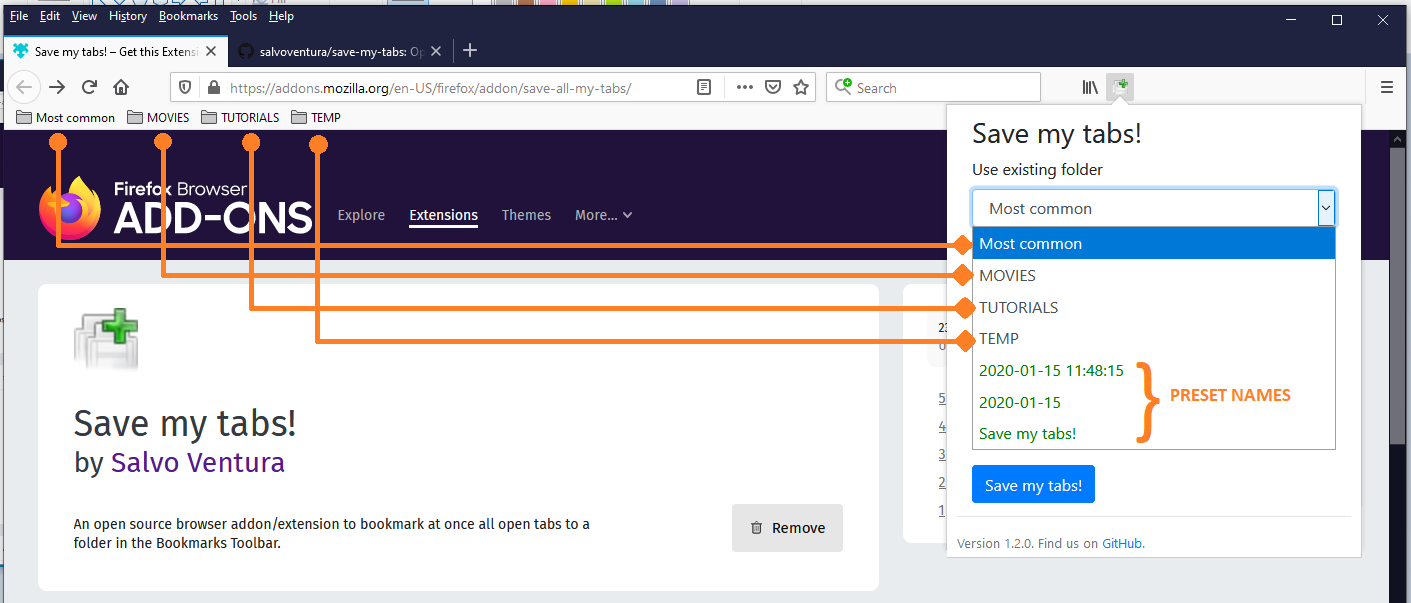
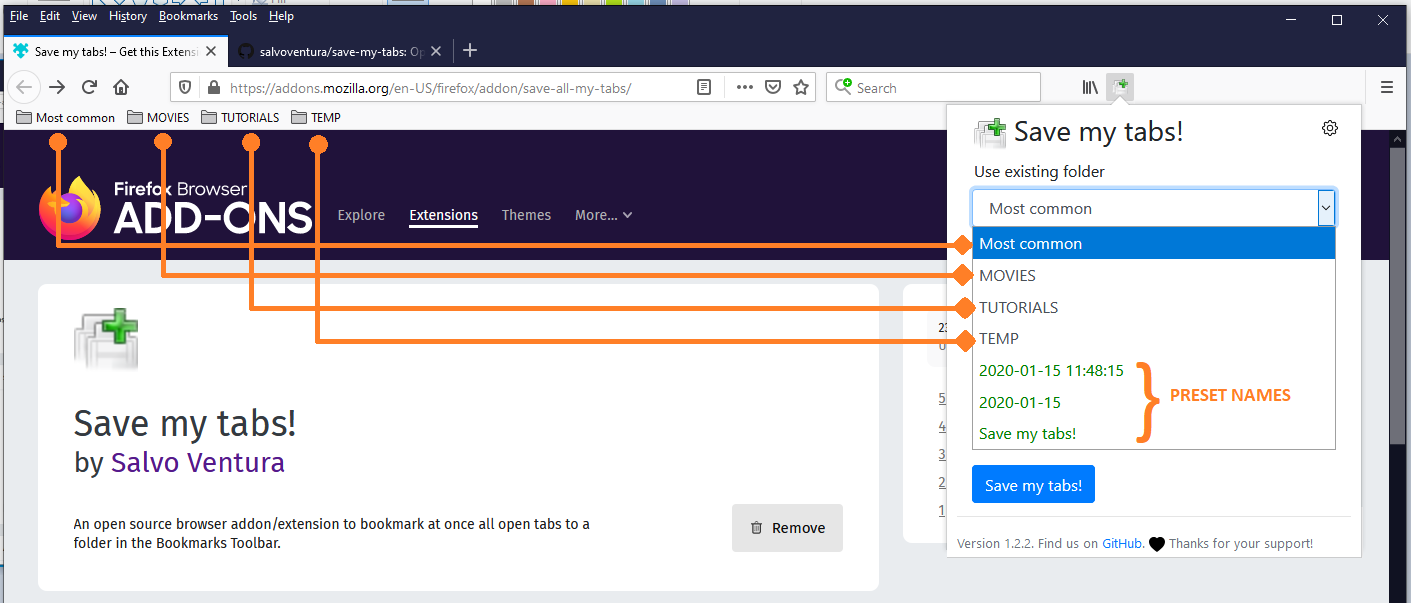
Bugfix, update screenshots for docs and update polyfill library to 0.7

diff --git a/lib/browser-polyfill.min.js b/lib/browser-polyfill.min.js
@@ -1,7 +1,7 @@
-(function(a,b){if("function"==typeof define&&define.amd)define("webextension-polyfill",["module"],b);else if("undefined"!=typeof exports)b(module);else{var c={exports:{}};b(c),a.browser=c.exports}})("undefined"==typeof globalThis?"undefined"==typeof self?this:self:globalThis,function(a){"use strict";if("undefined"==typeof browser||Object.getPrototypeOf(browser)!==Object.prototype){if("object"!=typeof chrome||!chrome||!chrome.runtime||!chrome.runtime.id)throw new Error("This script should only be loaded in a browser extension.");a.exports=(a=>{const b={alarms:{clear:{minArgs:0,maxArgs:1},clearAll:{minArgs:0,maxArgs:0},get:{minArgs:0,maxArgs:1},getAll:{minArgs:0,maxArgs:0}},bookmarks:{create:{minArgs:1,maxArgs:1},get:{minArgs:1,maxArgs:1},getChildren:{minArgs:1,maxArgs:1},getRecent:{minArgs:1,maxArgs:1},getSubTree:{minArgs:1,maxArgs:1},getTree:{minArgs:0,maxArgs:0},move:{minArgs:2,maxArgs:2},remove:{minArgs:1,maxArgs:1},removeTree:{minArgs:1,maxArgs:1},search:{minArgs:1,maxArgs:1},update:{minArgs:2,maxArgs:2}},browserAction:{disable:{minArgs:0,maxArgs:1,fallbackToNoCallback:!0},enable:{minArgs:0,maxArgs:1,fallbackToNoCallback:!0},getBadgeBackgroundColor:{minArgs:1,maxArgs:1},getBadgeText:{minArgs:1,maxArgs:1},getPopup:{minArgs:1,maxArgs:1},getTitle:{minArgs:1,maxArgs:1},openPopup:{minArgs:0,maxArgs:0},setBadgeBackgroundColor:{minArgs:1,maxArgs:1,fallbackToNoCallback:!0},setBadgeText:{minArgs:1,maxArgs:1,fallbackToNoCallback:!0},setIcon:{minArgs:1,maxArgs:1},setPopup:{minArgs:1,maxArgs:1,fallbackToNoCallback:!0},setTitle:{minArgs:1,maxArgs:1,fallbackToNoCallback:!0}},browsingData:{remove:{minArgs:2,maxArgs:2},removeCache:{minArgs:1,maxArgs:1},removeCookies:{minArgs:1,maxArgs:1},removeDownloads:{minArgs:1,maxArgs:1},removeFormData:{minArgs:1,maxArgs:1},removeHistory:{minArgs:1,maxArgs:1},removeLocalStorage:{minArgs:1,maxArgs:1},removePasswords:{minArgs:1,maxArgs:1},removePluginData:{minArgs:1,maxArgs:1},settings:{minArgs:0,maxArgs:0}},commands:{getAll:{minArgs:0,maxArgs:0}},contextMenus:{remove:{minArgs:1,maxArgs:1},removeAll:{minArgs:0,maxArgs:0},update:{minArgs:2,maxArgs:2}},cookies:{get:{minArgs:1,maxArgs:1},getAll:{minArgs:1,maxArgs:1},getAllCookieStores:{minArgs:0,maxArgs:0},remove:{minArgs:1,maxArgs:1},set:{minArgs:1,maxArgs:1}},devtools:{inspectedWindow:{eval:{minArgs:1,maxArgs:2,singleCallbackArg:!1}},panels:{create:{minArgs:3,maxArgs:3,singleCallbackArg:!0}}},downloads:{cancel:{minArgs:1,maxArgs:1},download:{minArgs:1,maxArgs:1},erase:{minArgs:1,maxArgs:1},getFileIcon:{minArgs:1,maxArgs:2},open:{minArgs:1,maxArgs:1,fallbackToNoCallback:!0},pause:{minArgs:1,maxArgs:1},removeFile:{minArgs:1,maxArgs:1},resume:{minArgs:1,maxArgs:1},search:{minArgs:1,maxArgs:1},show:{minArgs:1,maxArgs:1,fallbackToNoCallback:!0}},extension:{isAllowedFileSchemeAccess:{minArgs:0,maxArgs:0},isAllowedIncognitoAccess:{minArgs:0,maxArgs:0}},history:{addUrl:{minArgs:1,maxArgs:1},deleteAll:{minArgs:0,maxArgs:0},deleteRange:{minArgs:1,maxArgs:1},deleteUrl:{minArgs:1,maxArgs:1},getVisits:{minArgs:1,maxArgs:1},search:{minArgs:1,maxArgs:1}},i18n:{detectLanguage:{minArgs:1,maxArgs:1},getAcceptLanguages:{minArgs:0,maxArgs:0}},identity:{launchWebAuthFlow:{minArgs:1,maxArgs:1}},idle:{queryState:{minArgs:1,maxArgs:1}},management:{get:{minArgs:1,maxArgs:1},getAll:{minArgs:0,maxArgs:0},getSelf:{minArgs:0,maxArgs:0},setEnabled:{minArgs:2,maxArgs:2},uninstallSelf:{minArgs:0,maxArgs:1}},notifications:{clear:{minArgs:1,maxArgs:1},create:{minArgs:1,maxArgs:2},getAll:{minArgs:0,maxArgs:0},getPermissionLevel:{minArgs:0,maxArgs:0},update:{minArgs:2,maxArgs:2}},pageAction:{getPopup:{minArgs:1,maxArgs:1},getTitle:{minArgs:1,maxArgs:1},hide:{minArgs:1,maxArgs:1,fallbackToNoCallback:!0},setIcon:{minArgs:1,maxArgs:1},setPopup:{minArgs:1,maxArgs:1,fallbackToNoCallback:!0},setTitle:{minArgs:1,maxArgs:1,fallbackToNoCallback:!0},show:{minArgs:1,maxArgs:1,fallbackToNoCallback:!0}},permissions:{contains:{minArgs:1,maxArgs:1},getAll:{minArgs:0,maxArgs:0},remove:{minArgs:1,maxArgs:1},request:{minArgs:1,maxArgs:1}},runtime:{getBackgroundPage:{minArgs:0,maxArgs:0},getPlatformInfo:{minArgs:0,maxArgs:0},openOptionsPage:{minArgs:0,maxArgs:0},requestUpdateCheck:{minArgs:0,maxArgs:0},sendMessage:{minArgs:1,maxArgs:3},sendNativeMessage:{minArgs:2,maxArgs:2},setUninstallURL:{minArgs:1,maxArgs:1}},sessions:{getDevices:{minArgs:0,maxArgs:1},getRecentlyClosed:{minArgs:0,maxArgs:1},restore:{minArgs:0,maxArgs:1}},storage:{local:{clear:{minArgs:0,maxArgs:0},get:{minArgs:0,maxArgs:1},getBytesInUse:{minArgs:0,maxArgs:1},remove:{minArgs:1,maxArgs:1},set:{minArgs:1,maxArgs:1}},managed:{get:{minArgs:0,maxArgs:1},getBytesInUse:{minArgs:0,maxArgs:1}},sync:{clear:{minArgs:0,maxArgs:0},get:{minArgs:0,maxArgs:1},getBytesInUse:{minArgs:0,maxArgs:1},remove:{minArgs:1,maxArgs:1},set:{minArgs:1,maxArgs:1}}},tabs:{captureVisibleTab:{minArgs:0,maxArgs:2},create:{minArgs:1,maxArgs:1},detectLanguage:{minArgs:0,maxArgs:1},discard:{minArgs:0,maxArgs:1},duplicate:{minArgs:1,maxArgs:1},executeScript:{minArgs:1,maxArgs:2},get:{minArgs:1,maxArgs:1},getCurrent:{minArgs:0,maxArgs:0},getZoom:{minArgs:0,maxArgs:1},getZoomSettings:{minArgs:0,maxArgs:1},highlight:{minArgs:1,maxArgs:1},insertCSS:{minArgs:1,maxArgs:2},move:{minArgs:2,maxArgs:2},query:{minArgs:1,maxArgs:1},reload:{minArgs:0,maxArgs:2},remove:{minArgs:1,maxArgs:1},removeCSS:{minArgs:1,maxArgs:2},sendMessage:{minArgs:2,maxArgs:3},setZoom:{minArgs:1,maxArgs:2},setZoomSettings:{minArgs:1,maxArgs:2},update:{minArgs:1,maxArgs:2}},topSites:{get:{minArgs:0,maxArgs:0}},webNavigation:{getAllFrames:{minArgs:1,maxArgs:1},getFrame:{minArgs:1,maxArgs:1}},webRequest:{handlerBehaviorChanged:{minArgs:0,maxArgs:0}},windows:{create:{minArgs:0,maxArgs:1},get:{minArgs:1,maxArgs:2},getAll:{minArgs:0,maxArgs:1},getCurrent:{minArgs:0,maxArgs:1},getLastFocused:{minArgs:0,maxArgs:1},remove:{minArgs:1,maxArgs:1},update:{minArgs:2,maxArgs:2}}};if(0===Object.keys(b).length)throw new Error("api-metadata.json has not been included in browser-polyfill");class c extends WeakMap{constructor(a,b=void 0){super(b),this.createItem=a}get(a){return this.has(a)||this.set(a,this.createItem(a)),super.get(a)}}const d=a=>a&&"object"==typeof a&&"function"==typeof a.then,e=(b,c)=>(...d)=>{a.runtime.lastError?b.reject(a.runtime.lastError):c.singleCallbackArg||1>=d.length&&!1!==c.singleCallbackArg?b.resolve(d[0]):b.resolve(d)},f=a=>1==a?"argument":"arguments",g=(a,b)=>function(c,...d){if(d.length<b.minArgs)throw new Error(`Expected at least ${b.minArgs} ${f(b.minArgs)} for ${a}(), got ${d.length}`);if(d.length>b.maxArgs)throw new Error(`Expected at most ${b.maxArgs} ${f(b.maxArgs)} for ${a}(), got ${d.length}`);return new Promise((f,g)=>{if(b.fallbackToNoCallback)try{c[a](...d,e({resolve:f,reject:g},b))}catch(e){console.warn(`${a} API method doesn't seem to support the callback parameter, `+"falling back to call it without a callback: ",e),c[a](...d),b.fallbackToNoCallback=!1,b.noCallback=!0,f()}else b.noCallback?(c[a](...d),f()):c[a](...d,e({resolve:f,reject:g},b))})},h=(a,b,c)=>new Proxy(b,{apply(b,d,e){return c.call(d,a,...e)}});let i=Function.call.bind(Object.prototype.hasOwnProperty);const j=(a,b={},c={})=>{let d=Object.create(null),e={has(b,c){return c in a||c in d},get(e,f,k){if(f in d)return d[f];if(!(f in a))return;let l=a[f];if("function"==typeof l){if("function"==typeof b[f])l=h(a,a[f],b[f]);else if(i(c,f)){let b=g(f,c[f]);l=h(a,a[f],b)}else l=l.bind(a);}else if("object"==typeof l&&null!==l&&(i(b,f)||i(c,f)))l=j(l,b[f],c[f]);else if(i(c,"*"))l=j(l,b[f],c["*"]);else return Object.defineProperty(d,f,{configurable:!0,enumerable:!0,get(){return a[f]},set(b){a[f]=b}}),l;return d[f]=l,l},set(b,c,e,f){return c in d?d[c]=e:a[c]=e,!0},defineProperty(a,b,c){return Reflect.defineProperty(d,b,c)},deleteProperty(a,b){return Reflect.deleteProperty(d,b)}},f=Object.create(a);return new Proxy(f,e)},k=a=>({addListener(b,c,...d){b.addListener(a.get(c),...d)},hasListener(b,c){return b.hasListener(a.get(c))},removeListener(b,c){b.removeListener(a.get(c))}});let l=!1;const m=new c(a=>"function"==typeof a?function(b,c,e){let f,g,h=!1,i=new Promise(a=>{f=function(b){l||(console.warn("Returning a Promise is the preferred way to send a reply from an onMessage/onMessageExternal listener, as the sendResponse will be removed from the specs (See https://developer.mozilla.org/docs/Mozilla/Add-ons/WebExtensions/API/runtime/onMessage)",new Error().stack),l=!0),h=!0,a(b)}});try{g=a(b,c,f)}catch(a){g=Promise.reject(a)}const j=!0!==g&&d(g);if(!0!==g&&!j&&!h)return!1;const k=a=>{a.then(a=>{e(a)},a=>{let b;b=a&&(a instanceof Error||"string"==typeof a.message)?a.message:"An unexpected error occurred",e({__mozWebExtensionPolyfillReject__:!0,message:b})}).catch(a=>{console.error("Failed to send onMessage rejected reply",a)})};return j?k(g):k(i),!0}:a),n=({reject:b,resolve:c},d)=>{a.runtime.lastError?a.runtime.lastError.message==="The message port closed before a response was received."?c():b(a.runtime.lastError):d&&d.__mozWebExtensionPolyfillReject__?b(new Error(d.message)):c(d)},o=(a,b,c,...d)=>{if(d.length<b.minArgs)throw new Error(`Expected at least ${b.minArgs} ${f(b.minArgs)} for ${a}(), got ${d.length}`);if(d.length>b.maxArgs)throw new Error(`Expected at most ${b.maxArgs} ${f(b.maxArgs)} for ${a}(), got ${d.length}`);return new Promise((a,b)=>{const e=n.bind(null,{resolve:a,reject:b});d.push(e),c.sendMessage(...d)})},p={runtime:{onMessage:k(m),onMessageExternal:k(m),sendMessage:o.bind(null,"sendMessage",{minArgs:1,maxArgs:3})},tabs:{sendMessage:o.bind(null,"sendMessage",{minArgs:2,maxArgs:3})}},q={clear:{minArgs:1,maxArgs:1},get:{minArgs:1,maxArgs:1},set:{minArgs:1,maxArgs:1}};return b.privacy={network:{"*":q},services:{"*":q},websites:{"*":q}},j(a,p,b)})(chrome)}else a.exports=browser});
+(function(a,b){if("function"==typeof define&&define.amd)define("webextension-polyfill",["module"],b);else if("undefined"!=typeof exports)b(module);else{var c={exports:{}};b(c),a.browser=c.exports}})("undefined"==typeof globalThis?"undefined"==typeof self?this:self:globalThis,function(a){"use strict";if("undefined"==typeof browser||Object.getPrototypeOf(browser)!==Object.prototype){if("object"!=typeof chrome||!chrome||!chrome.runtime||!chrome.runtime.id)throw new Error("This script should only be loaded in a browser extension.");a.exports=(a=>{const b={alarms:{clear:{minArgs:0,maxArgs:1},clearAll:{minArgs:0,maxArgs:0},get:{minArgs:0,maxArgs:1},getAll:{minArgs:0,maxArgs:0}},bookmarks:{create:{minArgs:1,maxArgs:1},get:{minArgs:1,maxArgs:1},getChildren:{minArgs:1,maxArgs:1},getRecent:{minArgs:1,maxArgs:1},getSubTree:{minArgs:1,maxArgs:1},getTree:{minArgs:0,maxArgs:0},move:{minArgs:2,maxArgs:2},remove:{minArgs:1,maxArgs:1},removeTree:{minArgs:1,maxArgs:1},search:{minArgs:1,maxArgs:1},update:{minArgs:2,maxArgs:2}},browserAction:{disable:{minArgs:0,maxArgs:1,fallbackToNoCallback:!0},enable:{minArgs:0,maxArgs:1,fallbackToNoCallback:!0},getBadgeBackgroundColor:{minArgs:1,maxArgs:1},getBadgeText:{minArgs:1,maxArgs:1},getPopup:{minArgs:1,maxArgs:1},getTitle:{minArgs:1,maxArgs:1},openPopup:{minArgs:0,maxArgs:0},setBadgeBackgroundColor:{minArgs:1,maxArgs:1,fallbackToNoCallback:!0},setBadgeText:{minArgs:1,maxArgs:1,fallbackToNoCallback:!0},setIcon:{minArgs:1,maxArgs:1},setPopup:{minArgs:1,maxArgs:1,fallbackToNoCallback:!0},setTitle:{minArgs:1,maxArgs:1,fallbackToNoCallback:!0}},browsingData:{remove:{minArgs:2,maxArgs:2},removeCache:{minArgs:1,maxArgs:1},removeCookies:{minArgs:1,maxArgs:1},removeDownloads:{minArgs:1,maxArgs:1},removeFormData:{minArgs:1,maxArgs:1},removeHistory:{minArgs:1,maxArgs:1},removeLocalStorage:{minArgs:1,maxArgs:1},removePasswords:{minArgs:1,maxArgs:1},removePluginData:{minArgs:1,maxArgs:1},settings:{minArgs:0,maxArgs:0}},commands:{getAll:{minArgs:0,maxArgs:0}},contextMenus:{remove:{minArgs:1,maxArgs:1},removeAll:{minArgs:0,maxArgs:0},update:{minArgs:2,maxArgs:2}},cookies:{get:{minArgs:1,maxArgs:1},getAll:{minArgs:1,maxArgs:1},getAllCookieStores:{minArgs:0,maxArgs:0},remove:{minArgs:1,maxArgs:1},set:{minArgs:1,maxArgs:1}},devtools:{inspectedWindow:{eval:{minArgs:1,maxArgs:2,singleCallbackArg:!1}},panels:{create:{minArgs:3,maxArgs:3,singleCallbackArg:!0},elements:{createSidebarPane:{minArgs:1,maxArgs:1}}}},downloads:{cancel:{minArgs:1,maxArgs:1},download:{minArgs:1,maxArgs:1},erase:{minArgs:1,maxArgs:1},getFileIcon:{minArgs:1,maxArgs:2},open:{minArgs:1,maxArgs:1,fallbackToNoCallback:!0},pause:{minArgs:1,maxArgs:1},removeFile:{minArgs:1,maxArgs:1},resume:{minArgs:1,maxArgs:1},search:{minArgs:1,maxArgs:1},show:{minArgs:1,maxArgs:1,fallbackToNoCallback:!0}},extension:{isAllowedFileSchemeAccess:{minArgs:0,maxArgs:0},isAllowedIncognitoAccess:{minArgs:0,maxArgs:0}},history:{addUrl:{minArgs:1,maxArgs:1},deleteAll:{minArgs:0,maxArgs:0},deleteRange:{minArgs:1,maxArgs:1},deleteUrl:{minArgs:1,maxArgs:1},getVisits:{minArgs:1,maxArgs:1},search:{minArgs:1,maxArgs:1}},i18n:{detectLanguage:{minArgs:1,maxArgs:1},getAcceptLanguages:{minArgs:0,maxArgs:0}},identity:{launchWebAuthFlow:{minArgs:1,maxArgs:1}},idle:{queryState:{minArgs:1,maxArgs:1}},management:{get:{minArgs:1,maxArgs:1},getAll:{minArgs:0,maxArgs:0},getSelf:{minArgs:0,maxArgs:0},setEnabled:{minArgs:2,maxArgs:2},uninstallSelf:{minArgs:0,maxArgs:1}},notifications:{clear:{minArgs:1,maxArgs:1},create:{minArgs:1,maxArgs:2},getAll:{minArgs:0,maxArgs:0},getPermissionLevel:{minArgs:0,maxArgs:0},update:{minArgs:2,maxArgs:2}},pageAction:{getPopup:{minArgs:1,maxArgs:1},getTitle:{minArgs:1,maxArgs:1},hide:{minArgs:1,maxArgs:1,fallbackToNoCallback:!0},setIcon:{minArgs:1,maxArgs:1},setPopup:{minArgs:1,maxArgs:1,fallbackToNoCallback:!0},setTitle:{minArgs:1,maxArgs:1,fallbackToNoCallback:!0},show:{minArgs:1,maxArgs:1,fallbackToNoCallback:!0}},permissions:{contains:{minArgs:1,maxArgs:1},getAll:{minArgs:0,maxArgs:0},remove:{minArgs:1,maxArgs:1},request:{minArgs:1,maxArgs:1}},runtime:{getBackgroundPage:{minArgs:0,maxArgs:0},getPlatformInfo:{minArgs:0,maxArgs:0},openOptionsPage:{minArgs:0,maxArgs:0},requestUpdateCheck:{minArgs:0,maxArgs:0},sendMessage:{minArgs:1,maxArgs:3},sendNativeMessage:{minArgs:2,maxArgs:2},setUninstallURL:{minArgs:1,maxArgs:1}},sessions:{getDevices:{minArgs:0,maxArgs:1},getRecentlyClosed:{minArgs:0,maxArgs:1},restore:{minArgs:0,maxArgs:1}},storage:{local:{clear:{minArgs:0,maxArgs:0},get:{minArgs:0,maxArgs:1},getBytesInUse:{minArgs:0,maxArgs:1},remove:{minArgs:1,maxArgs:1},set:{minArgs:1,maxArgs:1}},managed:{get:{minArgs:0,maxArgs:1},getBytesInUse:{minArgs:0,maxArgs:1}},sync:{clear:{minArgs:0,maxArgs:0},get:{minArgs:0,maxArgs:1},getBytesInUse:{minArgs:0,maxArgs:1},remove:{minArgs:1,maxArgs:1},set:{minArgs:1,maxArgs:1}}},tabs:{captureVisibleTab:{minArgs:0,maxArgs:2},create:{minArgs:1,maxArgs:1},detectLanguage:{minArgs:0,maxArgs:1},discard:{minArgs:0,maxArgs:1},duplicate:{minArgs:1,maxArgs:1},executeScript:{minArgs:1,maxArgs:2},get:{minArgs:1,maxArgs:1},getCurrent:{minArgs:0,maxArgs:0},getZoom:{minArgs:0,maxArgs:1},getZoomSettings:{minArgs:0,maxArgs:1},goBack:{minArgs:0,maxArgs:1},goForward:{minArgs:0,maxArgs:1},highlight:{minArgs:1,maxArgs:1},insertCSS:{minArgs:1,maxArgs:2},move:{minArgs:2,maxArgs:2},query:{minArgs:1,maxArgs:1},reload:{minArgs:0,maxArgs:2},remove:{minArgs:1,maxArgs:1},removeCSS:{minArgs:1,maxArgs:2},sendMessage:{minArgs:2,maxArgs:3},setZoom:{minArgs:1,maxArgs:2},setZoomSettings:{minArgs:1,maxArgs:2},update:{minArgs:1,maxArgs:2}},topSites:{get:{minArgs:0,maxArgs:0}},webNavigation:{getAllFrames:{minArgs:1,maxArgs:1},getFrame:{minArgs:1,maxArgs:1}},webRequest:{handlerBehaviorChanged:{minArgs:0,maxArgs:0}},windows:{create:{minArgs:0,maxArgs:1},get:{minArgs:1,maxArgs:2},getAll:{minArgs:0,maxArgs:1},getCurrent:{minArgs:0,maxArgs:1},getLastFocused:{minArgs:0,maxArgs:1},remove:{minArgs:1,maxArgs:1},update:{minArgs:2,maxArgs:2}}};if(0===Object.keys(b).length)throw new Error("api-metadata.json has not been included in browser-polyfill");class c extends WeakMap{constructor(a,b=void 0){super(b),this.createItem=a}get(a){return this.has(a)||this.set(a,this.createItem(a)),super.get(a)}}const d=a=>a&&"object"==typeof a&&"function"==typeof a.then,e=(b,c)=>(...d)=>{a.runtime.lastError?b.reject(a.runtime.lastError):c.singleCallbackArg||1>=d.length&&!1!==c.singleCallbackArg?b.resolve(d[0]):b.resolve(d)},f=a=>1==a?"argument":"arguments",g=(a,b)=>function(c,...d){if(d.length<b.minArgs)throw new Error(`Expected at least ${b.minArgs} ${f(b.minArgs)} for ${a}(), got ${d.length}`);if(d.length>b.maxArgs)throw new Error(`Expected at most ${b.maxArgs} ${f(b.maxArgs)} for ${a}(), got ${d.length}`);return new Promise((f,g)=>{if(b.fallbackToNoCallback)try{c[a](...d,e({resolve:f,reject:g},b))}catch(e){console.warn(`${a} API method doesn't seem to support the callback parameter, `+"falling back to call it without a callback: ",e),c[a](...d),b.fallbackToNoCallback=!1,b.noCallback=!0,f()}else b.noCallback?(c[a](...d),f()):c[a](...d,e({resolve:f,reject:g},b))})},h=(a,b,c)=>new Proxy(b,{apply(b,d,e){return c.call(d,a,...e)}});let i=Function.call.bind(Object.prototype.hasOwnProperty);const j=(a,b={},c={})=>{let d=Object.create(null),e=Object.create(a);return new Proxy(e,{has(b,c){return c in a||c in d},get(e,f){if(f in d)return d[f];if(!(f in a))return;let k=a[f];if("function"==typeof k){if("function"==typeof b[f])k=h(a,a[f],b[f]);else if(i(c,f)){let b=g(f,c[f]);k=h(a,a[f],b)}else k=k.bind(a);}else if("object"==typeof k&&null!==k&&(i(b,f)||i(c,f)))k=j(k,b[f],c[f]);else if(i(c,"*"))k=j(k,b[f],c["*"]);else return Object.defineProperty(d,f,{configurable:!0,enumerable:!0,get(){return a[f]},set(b){a[f]=b}}),k;return d[f]=k,k},set(b,c,e){return c in d?d[c]=e:a[c]=e,!0},defineProperty(a,b,c){return Reflect.defineProperty(d,b,c)},deleteProperty(a,b){return Reflect.deleteProperty(d,b)}})},k=a=>({addListener(b,c,...d){b.addListener(a.get(c),...d)},hasListener(b,c){return b.hasListener(a.get(c))},removeListener(b,c){b.removeListener(a.get(c))}});let l=!1;const m=new c(a=>"function"==typeof a?function(b,c,e){let f,g,h=!1,i=new Promise(a=>{f=function(b){l||(console.warn("Returning a Promise is the preferred way to send a reply from an onMessage/onMessageExternal listener, as the sendResponse will be removed from the specs (See https://developer.mozilla.org/docs/Mozilla/Add-ons/WebExtensions/API/runtime/onMessage)",new Error().stack),l=!0),h=!0,a(b)}});try{g=a(b,c,f)}catch(a){g=Promise.reject(a)}const j=!0!==g&&d(g);if(!0!==g&&!j&&!h)return!1;const k=a=>{a.then(a=>{e(a)},a=>{let b;b=a&&(a instanceof Error||"string"==typeof a.message)?a.message:"An unexpected error occurred",e({__mozWebExtensionPolyfillReject__:!0,message:b})}).catch(a=>{console.error("Failed to send onMessage rejected reply",a)})};return j?k(g):k(i),!0}:a),n=({reject:b,resolve:c},d)=>{a.runtime.lastError?a.runtime.lastError.message==="The message port closed before a response was received."?c():b(a.runtime.lastError):d&&d.__mozWebExtensionPolyfillReject__?b(new Error(d.message)):c(d)},o=(a,b,c,...d)=>{if(d.length<b.minArgs)throw new Error(`Expected at least ${b.minArgs} ${f(b.minArgs)} for ${a}(), got ${d.length}`);if(d.length>b.maxArgs)throw new Error(`Expected at most ${b.maxArgs} ${f(b.maxArgs)} for ${a}(), got ${d.length}`);return new Promise((a,b)=>{const e=n.bind(null,{resolve:a,reject:b});d.push(e),c.sendMessage(...d)})},p={runtime:{onMessage:k(m),onMessageExternal:k(m),sendMessage:o.bind(null,"sendMessage",{minArgs:1,maxArgs:3})},tabs:{sendMessage:o.bind(null,"sendMessage",{minArgs:2,maxArgs:3})}},q={clear:{minArgs:1,maxArgs:1},get:{minArgs:1,maxArgs:1},set:{minArgs:1,maxArgs:1}};return b.privacy={network:{"*":q},services:{"*":q},websites:{"*":q}},j(a,p,b)})(chrome)}else a.exports=browser});
 //# sourceMappingURL=browser-polyfill.min.js.map
 
-// webextension-polyfill v.0.6.0 (https://github.com/mozilla/webextension-polyfill)
+// webextension-polyfill v.0.7.0 (https://github.com/mozilla/webextension-polyfill)
 
 /* This Source Code Form is subject to the terms of the Mozilla Public
  * License, v. 2.0. If a copy of the MPL was not distributed with this

diff --git a/lib/common.js b/lib/common.js
@@ -88,10 +88,20 @@ async function getSavedOptions() {
         let options = new Map();
         let saved = await browser.storage.local.get("settings");
 
-        options.set('autosave', saved.settings.autosave);
-        options.set('interval', saved.settings.interval);
-        options.set('overwrite', saved.settings.overwrite);
-        options.set('savepinned', saved.settings.savepinned);
+        if (saved.settings !== undefined) {
+            // read saved values
+            options.set('autosave', saved.settings.autosave);    
+            options.set('interval', saved.settings.interval);    
+            options.set('overwrite', saved.settings.overwrite);  
+            options.set('savepinned', saved.settings.savepinned);
+        } else {
+            // apply defaults
+            options.set('autosave', false);     // default false
+            options.set('interval', "5");       // default 5 min
+            options.set('overwrite', false);   // default false
+            options.set('savepinned', false);  // default false
+        }
+
         console.log('getSavedOptions returning ', [...options]);
         return options;
         
